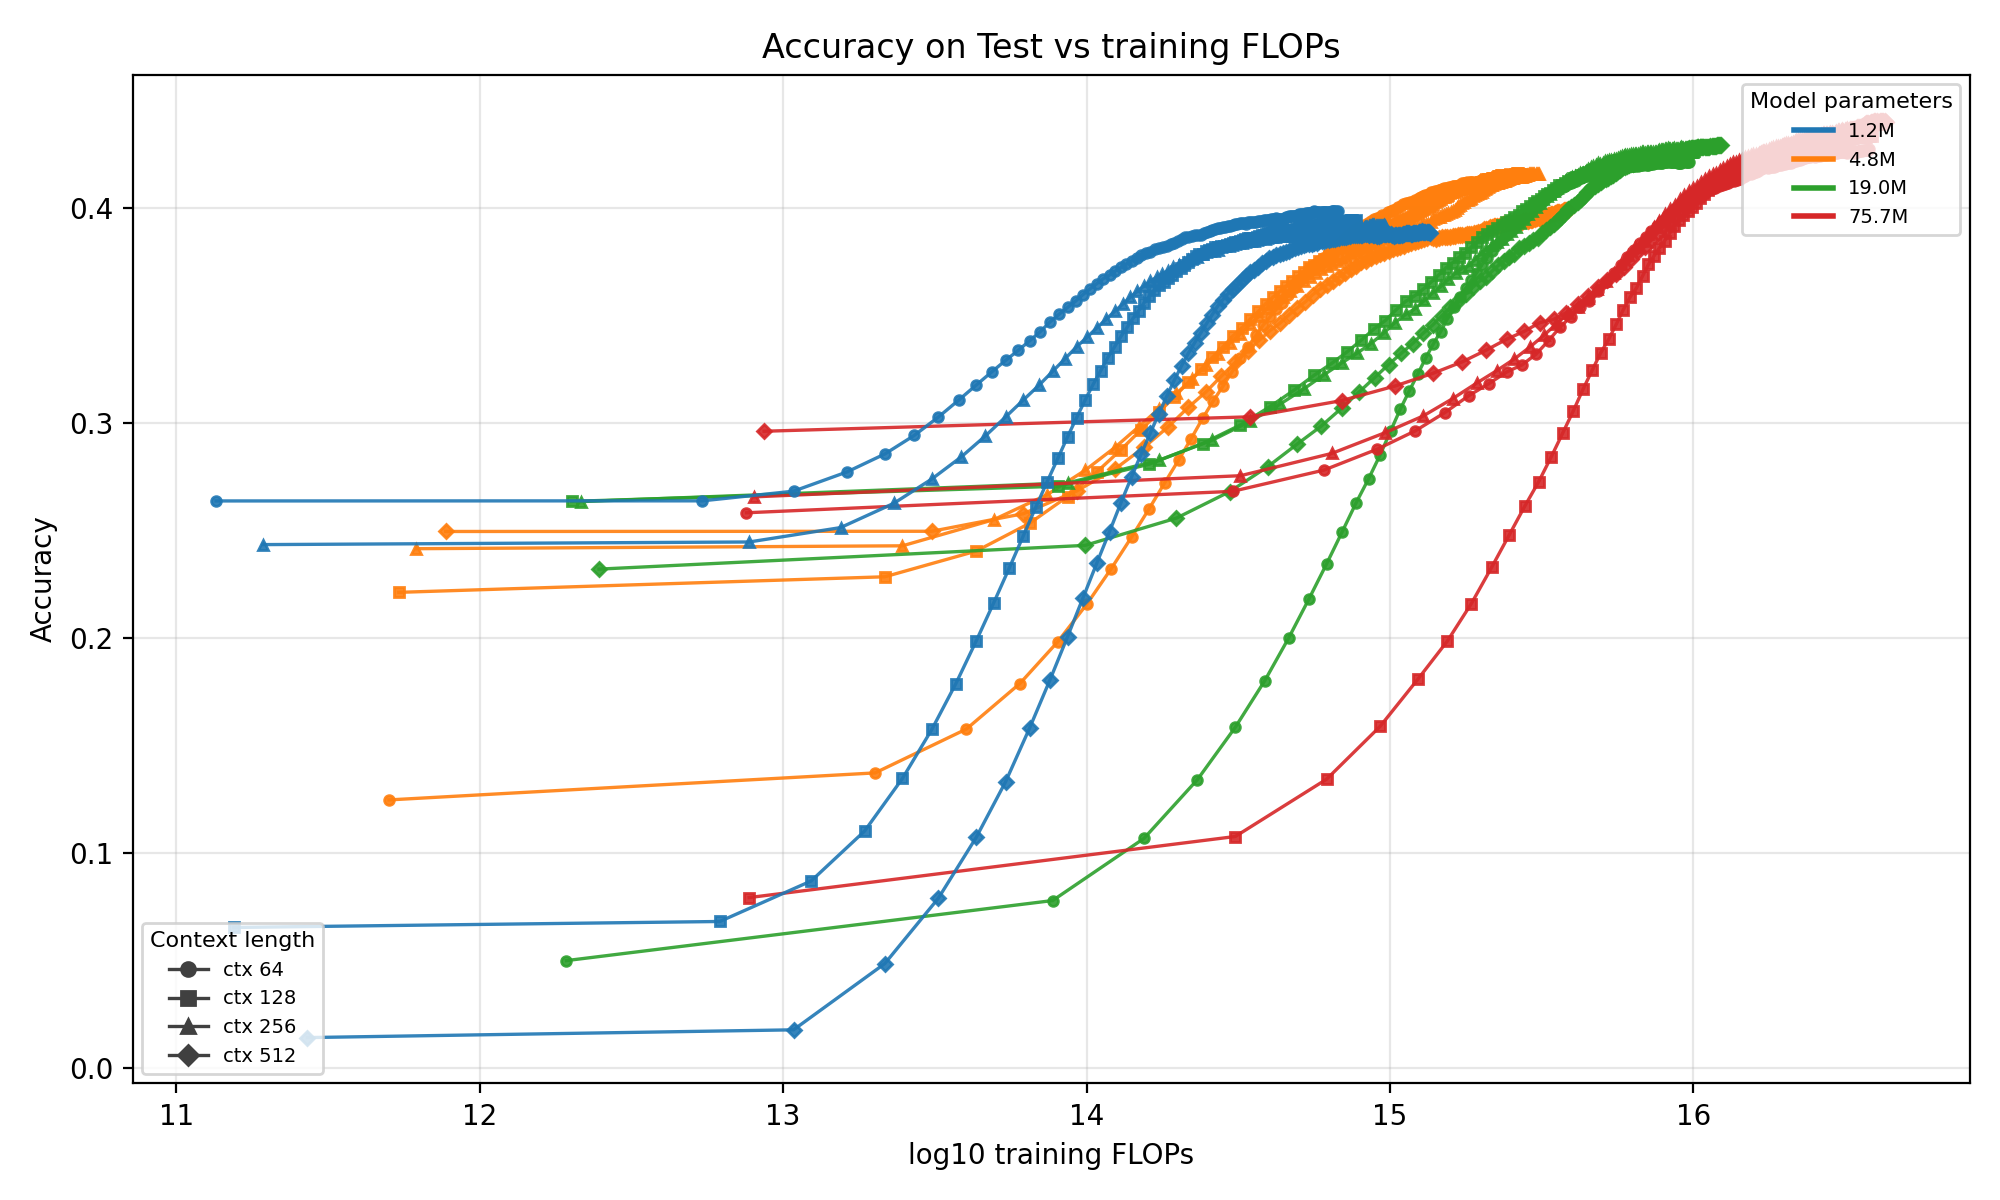
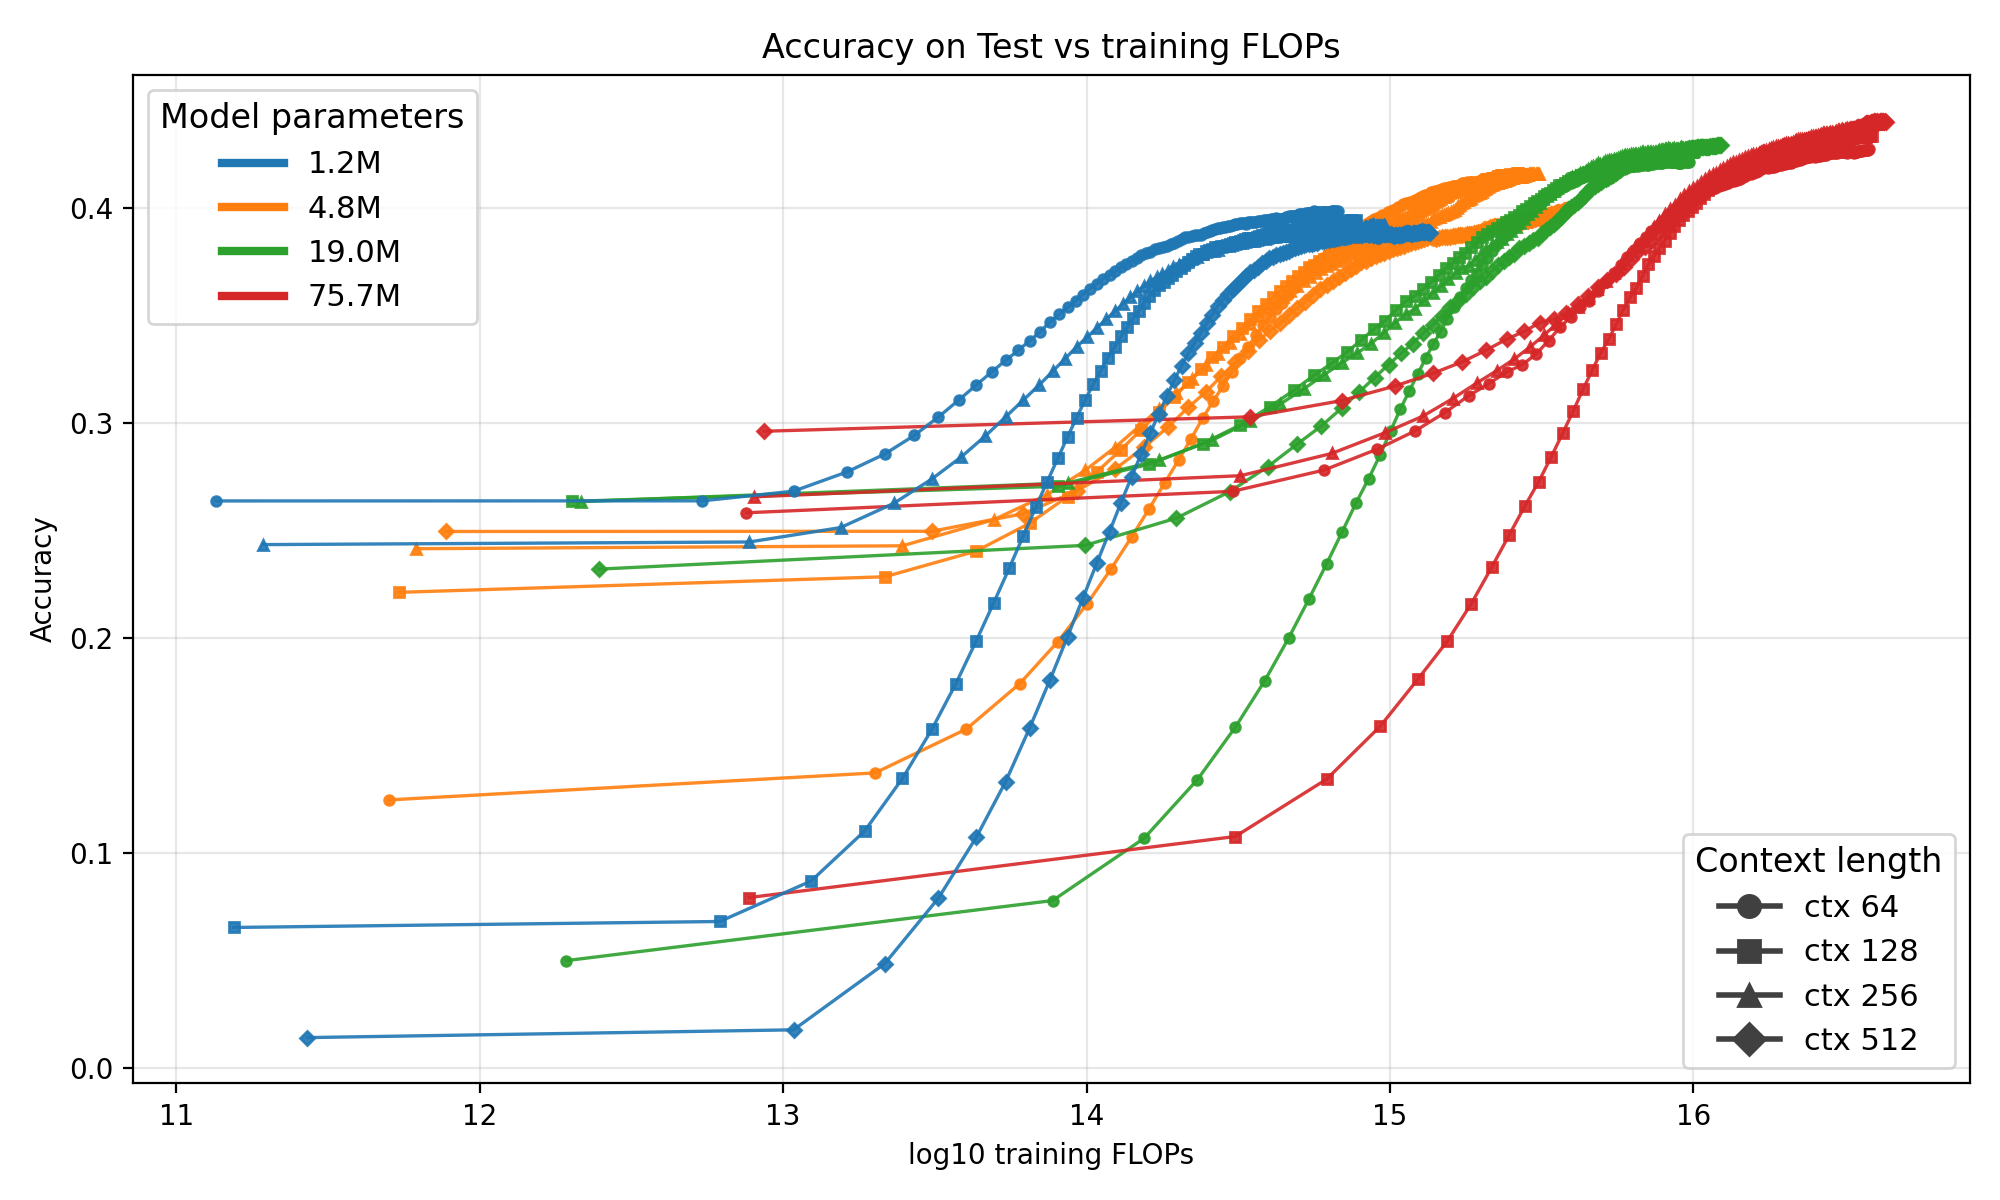
Change Legends

diff --git a/experiments/plot_scaling_laws.py b/experiments/plot_scaling_laws.py
@@ -277,9 +277,16 @@ def _format_num_parameters(num_parameters):
     return str(num_parameters)
 
 
-def _add_style_legends(ax, color_by_params, marker_by_context):
+def _add_style_legends(ax, color_by_params, marker_by_context, metric_key):
+    if metric_key == "accuracy":
+        param_loc = "upper left"
+        context_loc = "lower right"
+    else:
+        param_loc = "upper right"
+        context_loc = "lower left"
+
     param_handles = [
-        Line2D([0], [0], color=color, lw=2, label=_format_num_parameters(num_parameters))
+        Line2D([0], [0], color=color, lw=3, label=_format_num_parameters(num_parameters))
         for num_parameters, color in color_by_params.items()
     ]
     context_handles = [
@@ -287,18 +294,30 @@ def _add_style_legends(ax, color_by_params, marker_by_context):
             [0],
             [0],
             color="0.25",
-            lw=1.2,
+            lw=2.0,
             linestyle="-",
             marker=marker,
-            markersize=5,
+            markersize=8,
             label=f"ctx {context_len}",
         )
         for context_len, marker in marker_by_context.items()
     ]
 
-    param_legend = ax.legend(handles=param_handles, title="Model parameters", fontsize=7, title_fontsize=8, loc="upper right")
+    param_legend = ax.legend(
+        handles=param_handles,
+        title="Model parameters",
+        fontsize=11,
+        title_fontsize=12,
+        loc=param_loc,
+    )
     ax.add_artist(param_legend)
-    ax.legend(handles=context_handles, title="Context length", fontsize=7, title_fontsize=8, loc="lower left")
+    ax.legend(
+        handles=context_handles,
+        title="Context length",
+        fontsize=11,
+        title_fontsize=12,
+        loc=context_loc,
+    )
 
 
 def apply_ema(values, alpha, unbiased=False):
@@ -402,7 +421,7 @@ def plot_points(points, x_key, x_label, metric_key, metric_label, path, ema_alph
             ema_unbiased,
         )
 
-    _add_style_legends(axes[0, 0], color_by_params, marker_by_context)
+    _add_style_legends(axes[0, 0], color_by_params, marker_by_context, metric_key)
     fig.tight_layout()
     fig.savefig(path, dpi=200)
     plt.close(fig)
@@ -433,7 +452,7 @@ def plot_single_curve(points, split, x_key, x_label, metric_key, metric_label, p
         ema_alpha,
         ema_unbiased,
     )
-    _add_style_legends(ax, color_by_params, marker_by_context)
+    _add_style_legends(ax, color_by_params, marker_by_context, metric_key)
     fig.tight_layout()
     fig.savefig(path, dpi=200)
     plt.close(fig)
